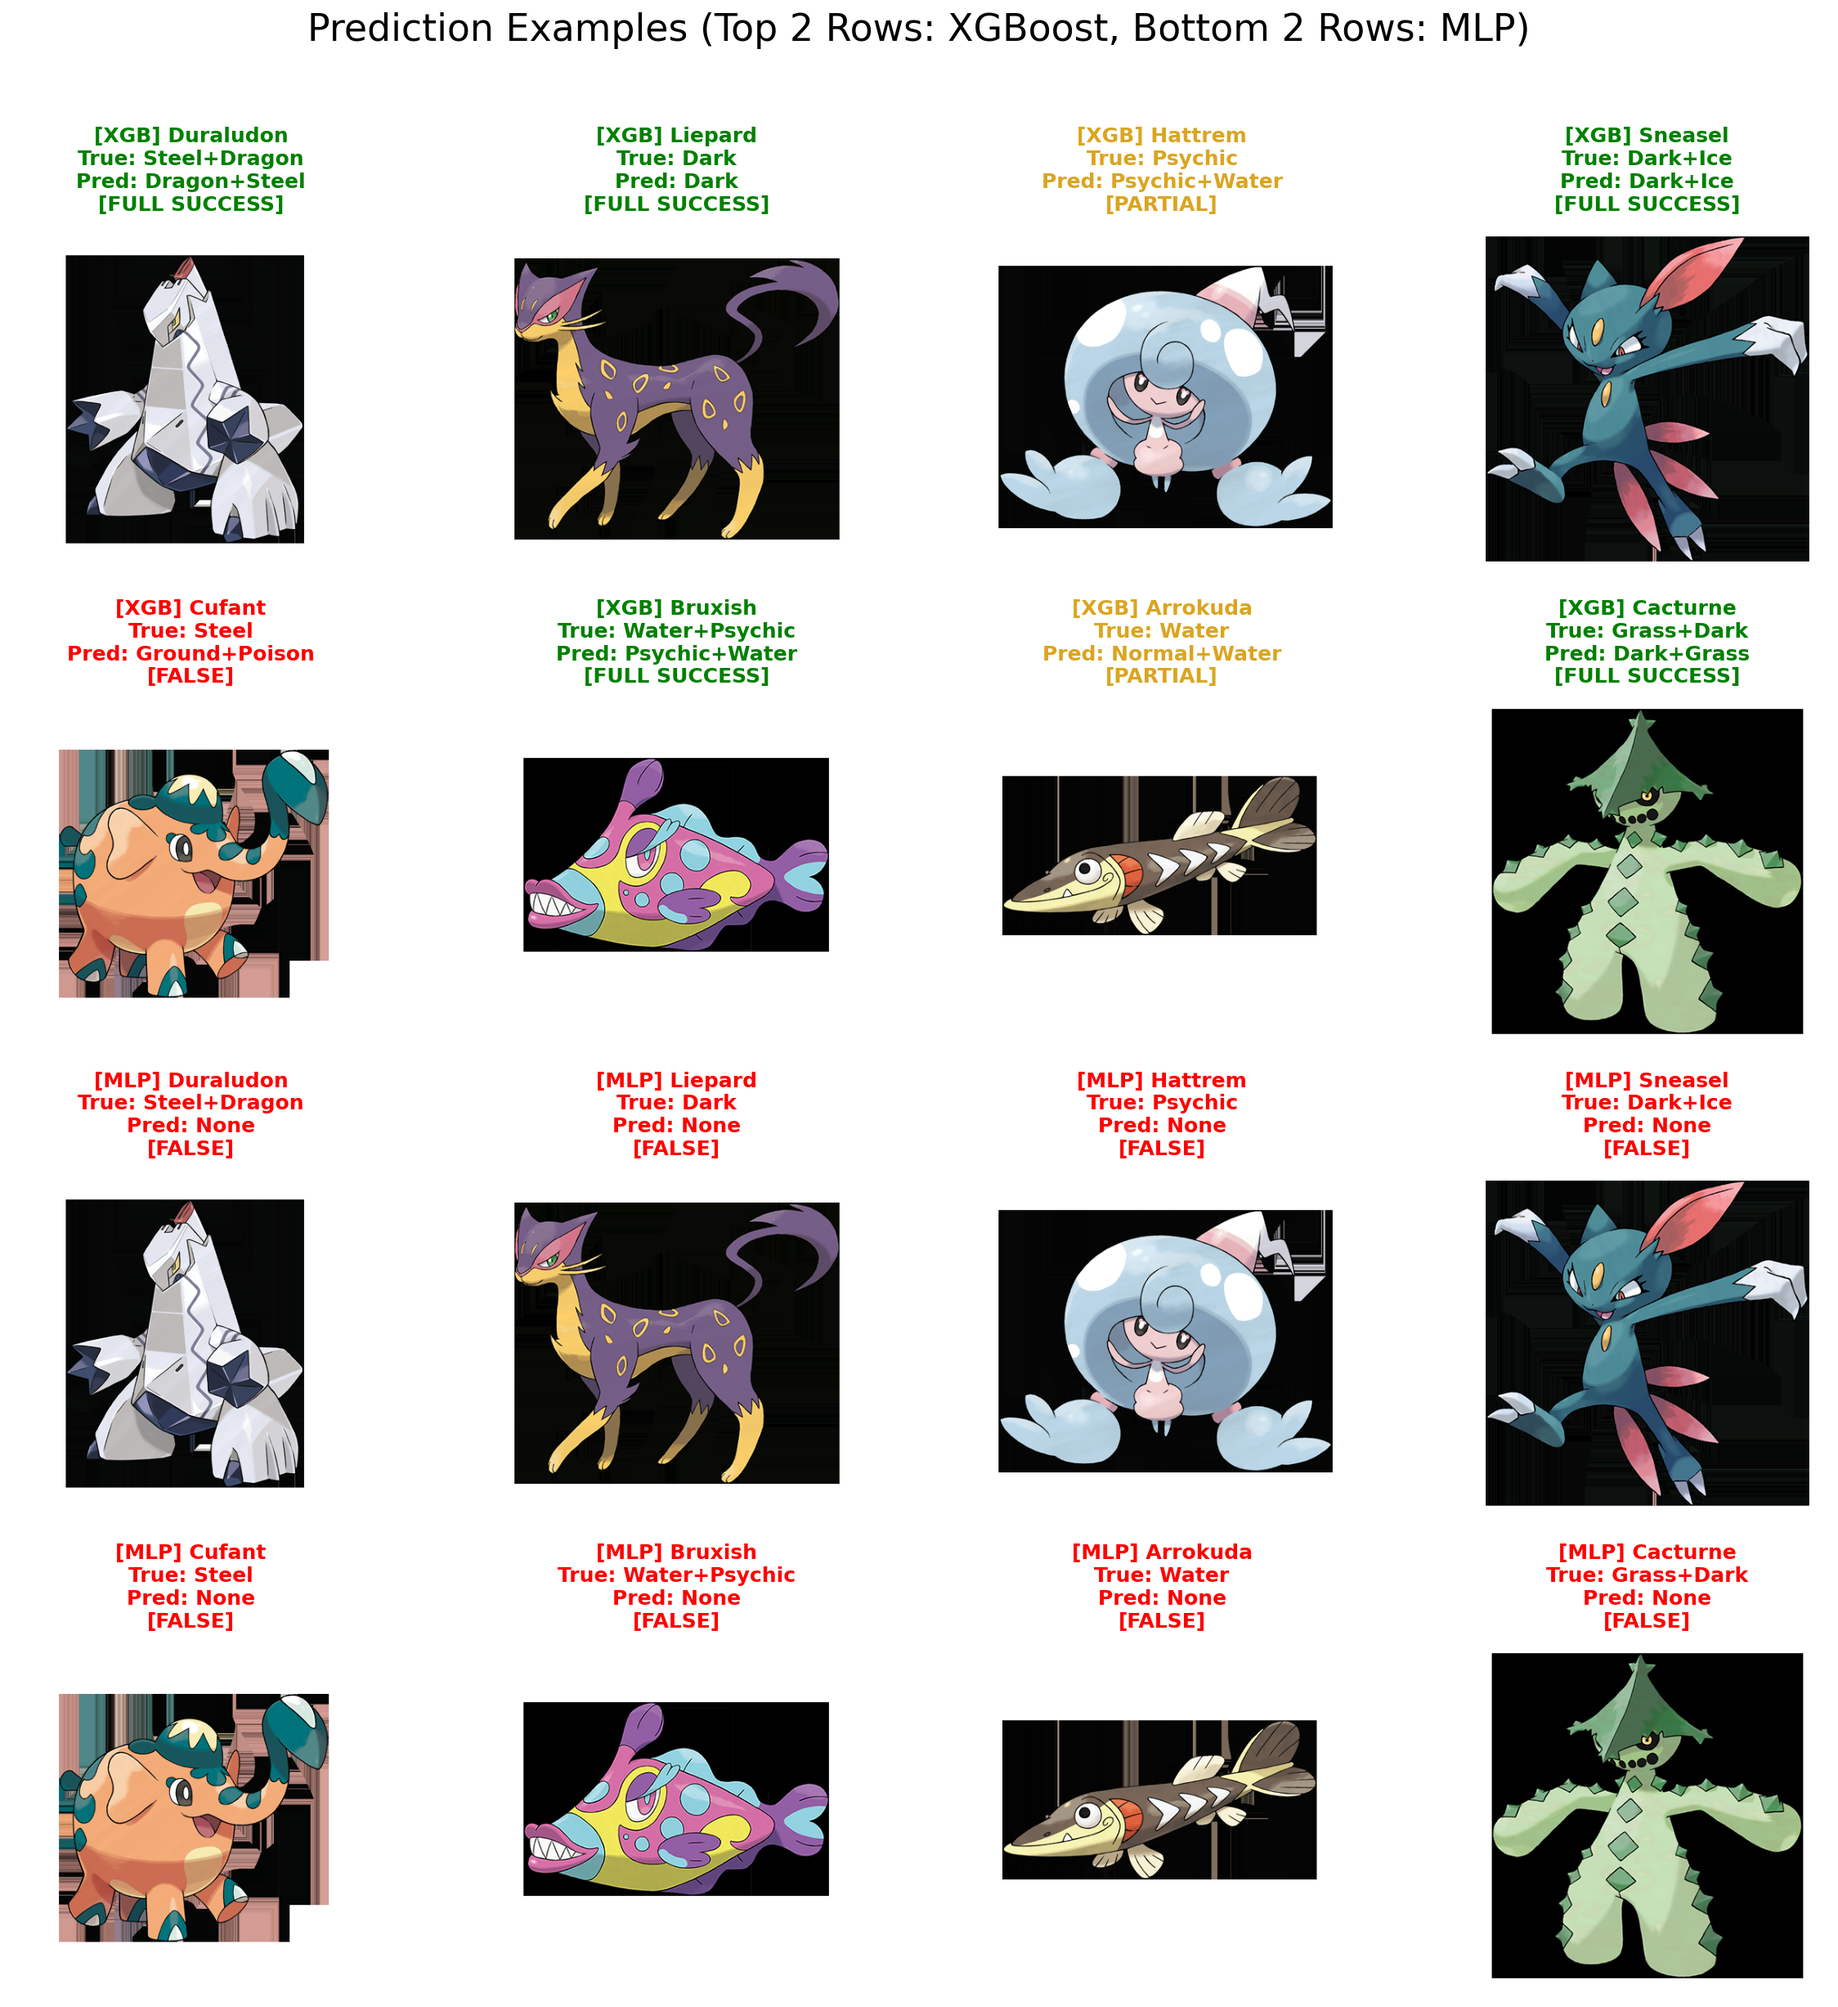
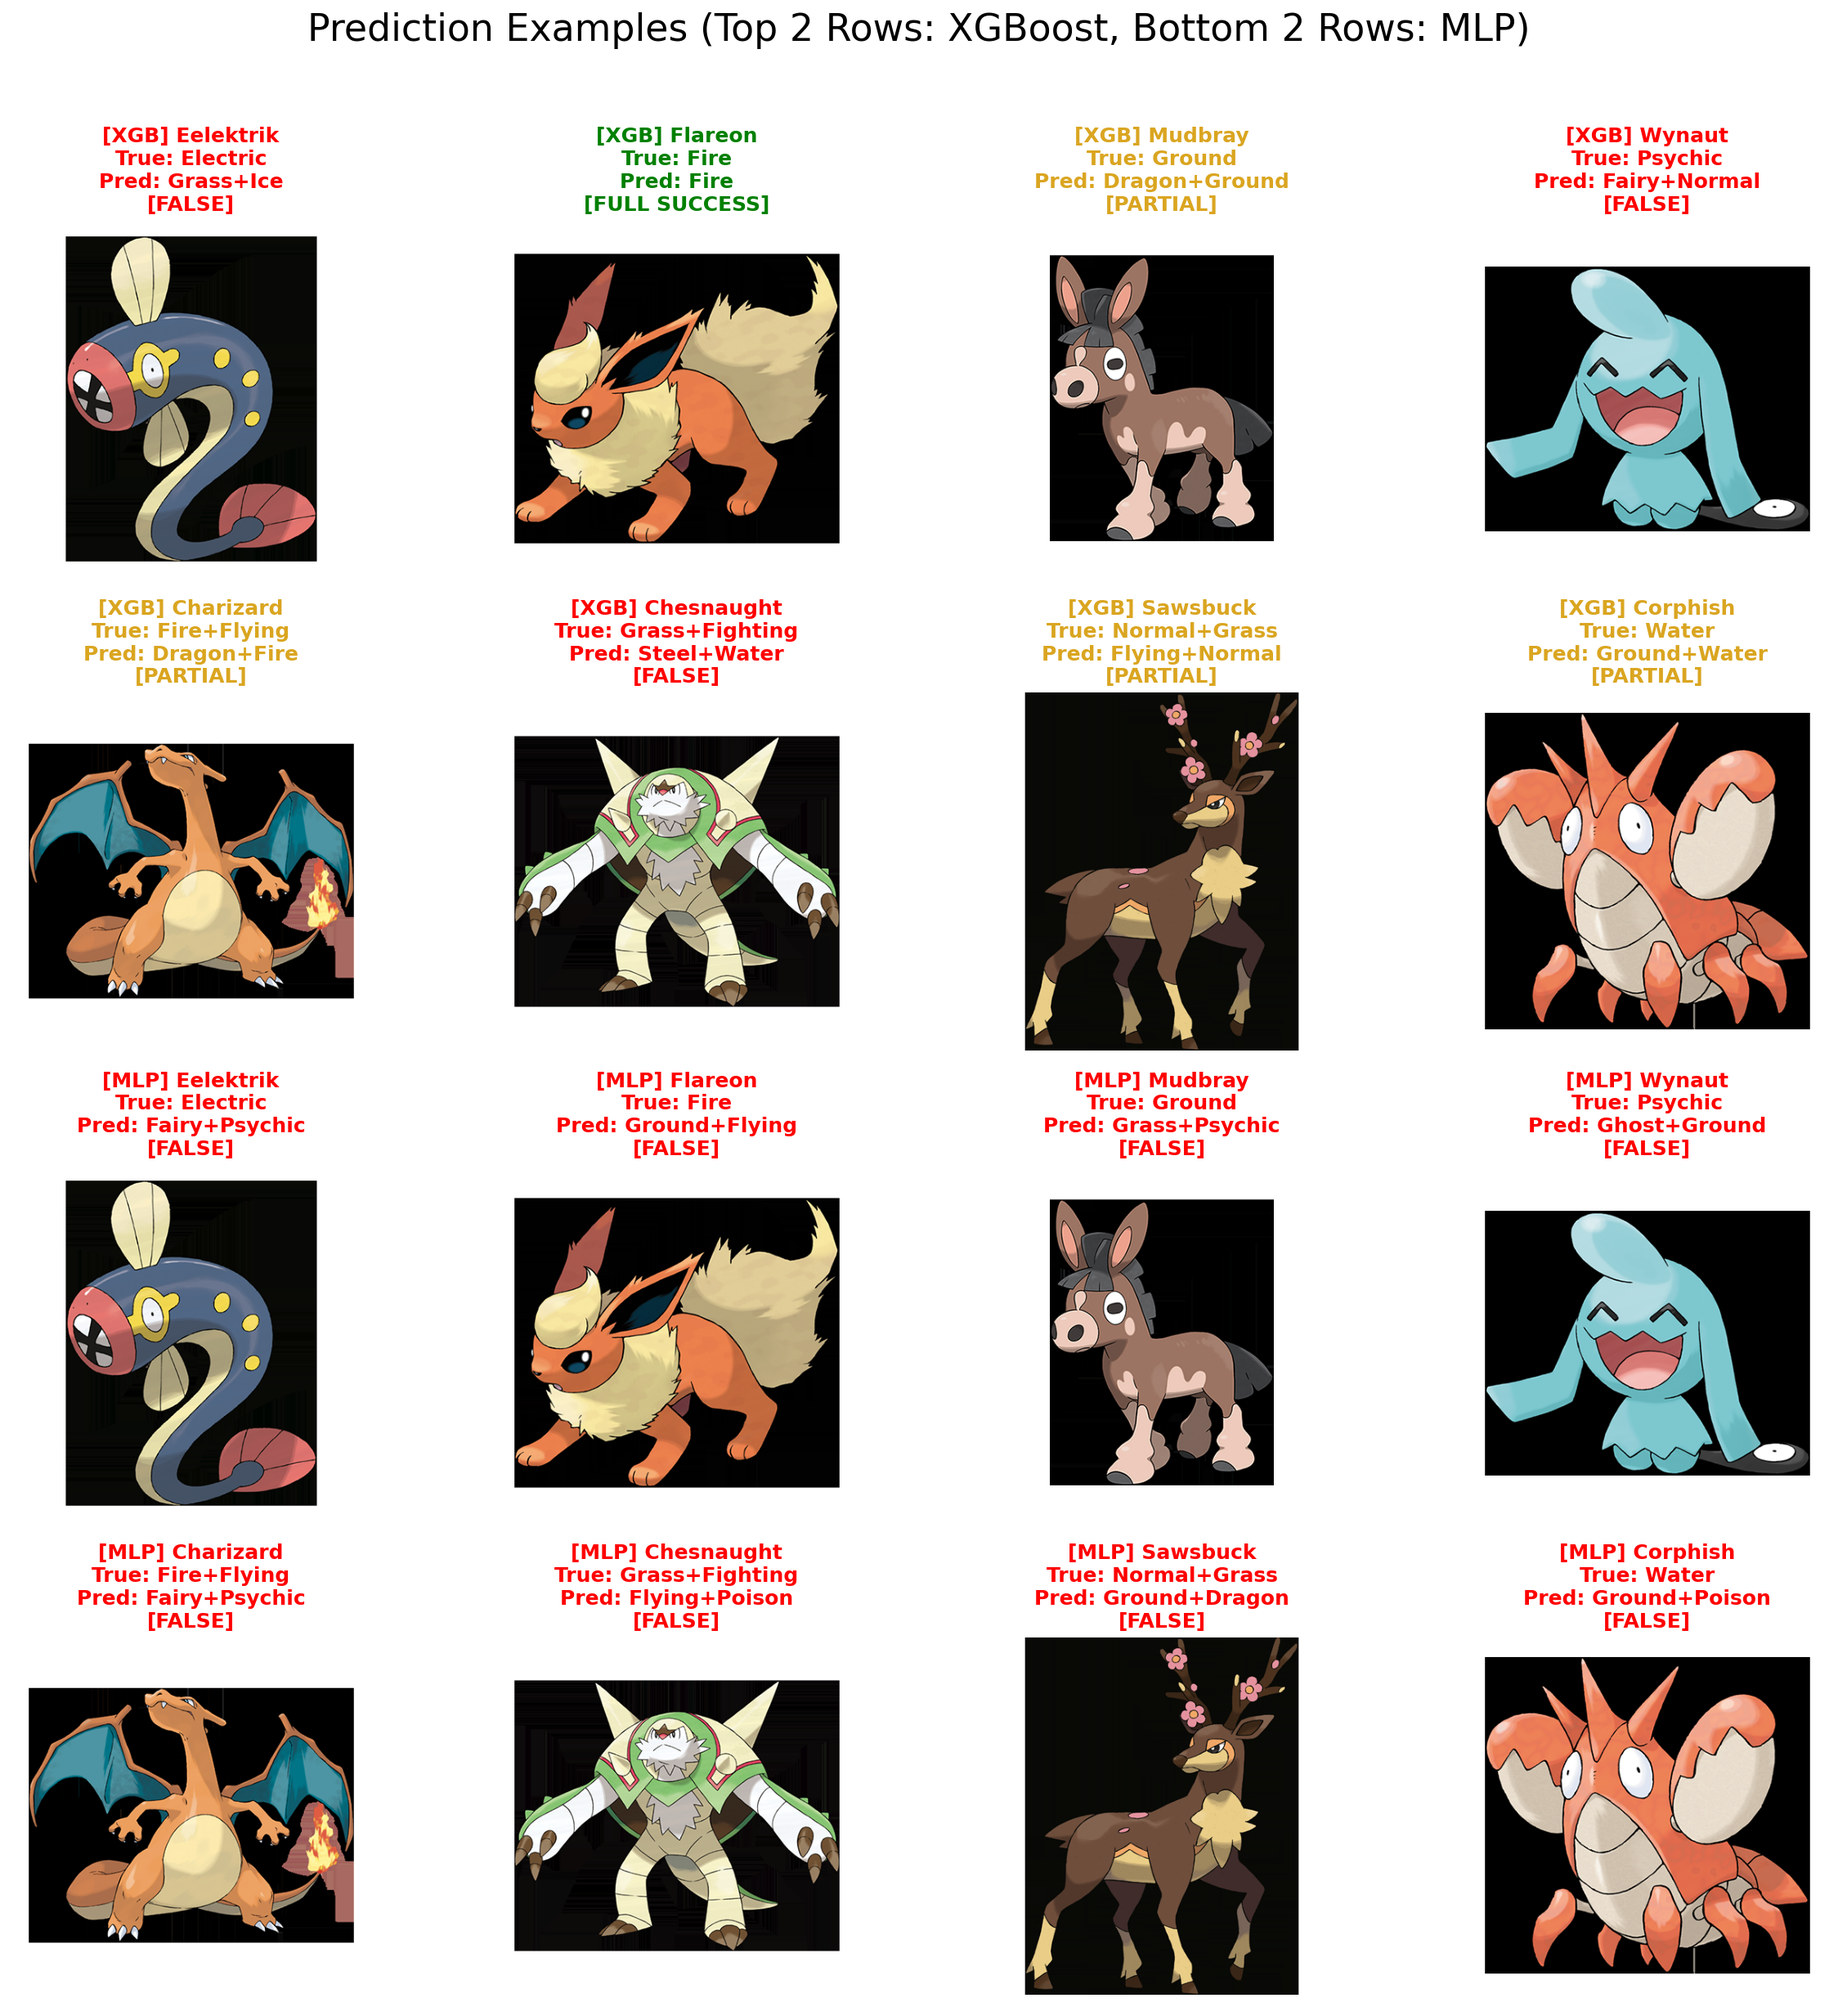
Fix MLP quantization metadata load issue and regenerate valid MLP prediction grids

diff --git a/patch_h5.py b/patch_h5.py
@@ -1,0 +1,19 @@
+import h5py
+import json
+import tensorflow as tf
+from pokemon_predictor.model_utils import FocalLoss
+
+try:
+    with h5py.File("models/mlp_model_optimized.h5", "r+") as f:
+        model_config = json.loads(f.attrs.get("model_config"))
+        for layer in model_config["config"]["layers"]:
+            if "quantization_config" in layer["config"]:
+                del layer["config"]["quantization_config"]
+        f.attrs.modify("model_config", json.dumps(model_config).encode("utf-8"))
+    print("Patched the h5 file!")
+    
+    # Test load
+    model = tf.keras.models.load_model("models/mlp_model_optimized.h5", custom_objects={'FocalLoss': FocalLoss, 'focal_loss': FocalLoss})
+    print("Loaded model successfully!")
+except Exception as e:
+    print(f"Error: {e}")

diff --git a/pokemon_predictor/predict.py b/pokemon_predictor/predict.py
@@ -34,7 +34,7 @@ class PokemonPredictor:
                     self.mlp_threshold = joblib.load(thresh_path)
                     print(f"Loaded optimized MLP with threshold: {self.mlp_threshold:.2f}")
             else:
-                self.mlp_model = load_model(config.MODELS_DIR / "mlp_model_clean.h5", custom_objects={'FocalLoss': FocalLoss, 'focal_loss': FocalLoss})
+                self.mlp_model = load_model(config.MODELS_DIR / "mlp_model_optimized.h5", custom_objects={'FocalLoss': FocalLoss, 'focal_loss': FocalLoss})
                 print("Loaded baseline MLP.")
                 
         except Exception as e:

diff --git a/export_weights.py b/export_weights.py
@@ -1,0 +1,11 @@
+import tensorflow as tf
+from pokemon_predictor.model_utils import FocalLoss
+
+try:
+    print("Trying to load mlp_model.keras...")
+    model = tf.keras.models.load_model("models/mlp_model.keras", custom_objects={'FocalLoss': FocalLoss, 'focal_loss': FocalLoss}, compile=False)
+    print("Loaded successfully!")
+    model.save_weights("models/mlp_weights.h5")
+    print("Saved weights to models/mlp_weights.h5")
+except Exception as e:
+    print(f"Error: {e}")

diff --git a/pokemon_predictor/evaluate.py b/pokemon_predictor/evaluate.py
@@ -59,7 +59,7 @@ def evaluate_models():
     try:
         X_train, X_test, y_train, y_test, classes = load_data('hybrid', split_data=True)
         
-        mlp_path = config.MODELS_DIR / "mlp_model_clean.h5"
+        mlp_path = config.MODELS_DIR / "mlp_model_optimized.h5"
         if not mlp_path.exists():
             print("MLP model not found at specified path.")
             return

diff --git a/reports/model_performance_report.md b/reports/model_performance_report.md
@@ -18,15 +18,15 @@
 
 Performance metrics on the Test Set (20% hold-out):
 
-| Metric | XGBoost (RGB + 5 Bio-Ratios) | MLP (Hybrid + 5 Bio-Ratios) [Top-1 Combo] |
+| Metric | XGBoost (RGB + 8 Bio-Ratios) | MLP (Hybrid + 8 Bio-Ratios) [Top-1 Combo] |
 | :--- | :--- | :--- |
-| **Exact Match Accuracy (Full Success)** | 44.55% | 1.91% |
-| **Partial Match Accuracy** | 90.45% | 20.93% |
-| **Top-3 Any Match Accuracy** | N/A | 4.35% |
-| **F1 Score (Micro)** | 0.7425 | 0.1256 |
-| **F1 Score (Macro)** | 0.7331 | 0.0886 |
-| **Precision (Micro)** | 0.67 | 0.10 |
-| **Recall (Micro)** | 0.83 | 0.17 |
+| **Exact Match Accuracy (Full Success)** | 44.55% | 0.61% |
+| **Partial Match Accuracy** | 90.45% | 21.36% |
+| **Top-3 Any Match Accuracy** | N/A | 1.21% |
+| **F1 Score (Micro)** | 0.7425 | 0.1246 |
+| **F1 Score (Macro)** | 0.7331 | 0.0976 |
+| **Precision (Micro)** | 0.67 | 0.12 |
+| **Recall (Micro)** | 0.83 | 0.14 |
 
 \* *For the MLP, F1, Precision, and Recall are calculated based on the single highest-scoring combination (Top-1) to remain comparable to XGBoost.*
 
